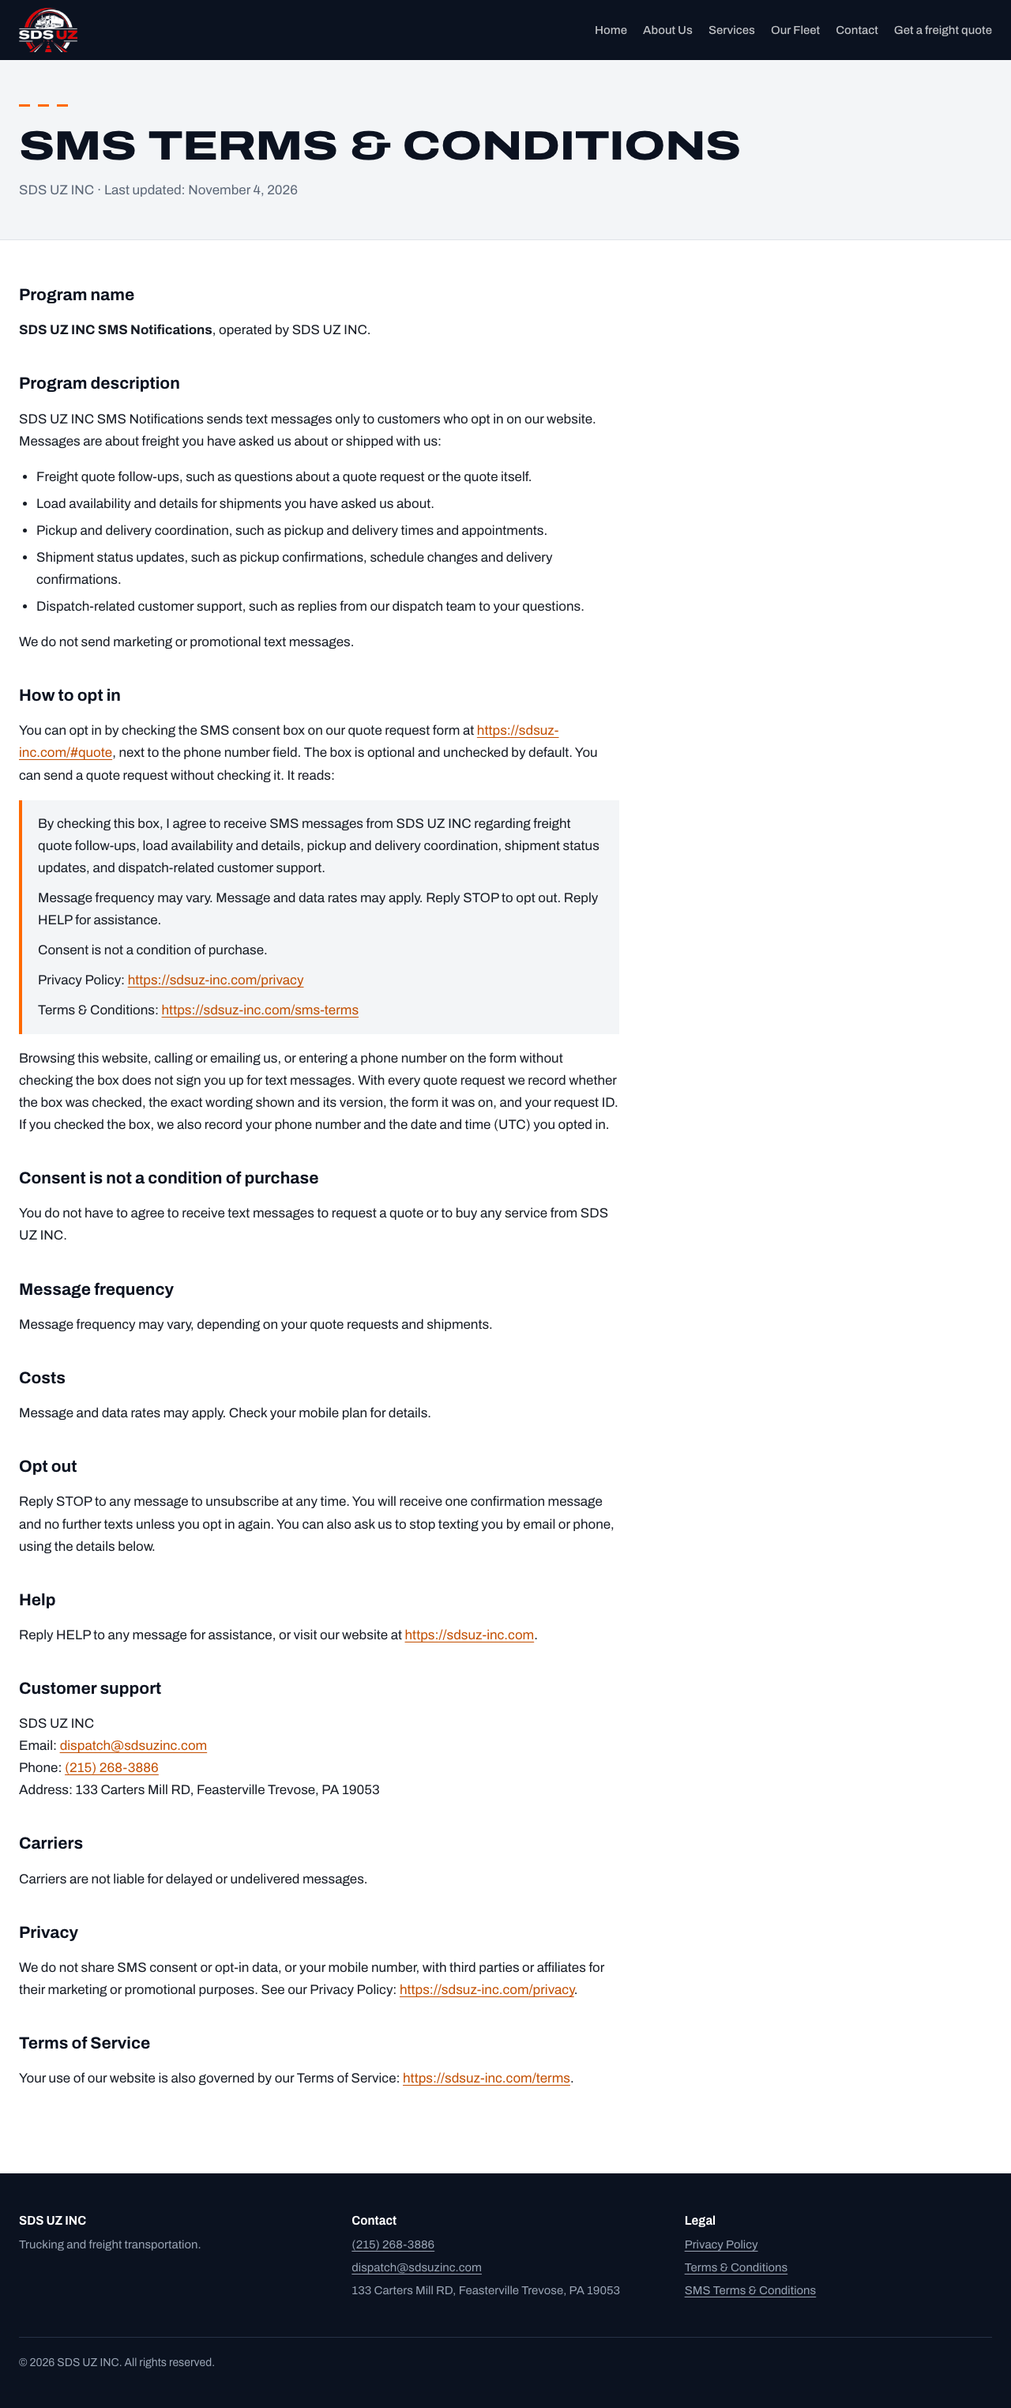
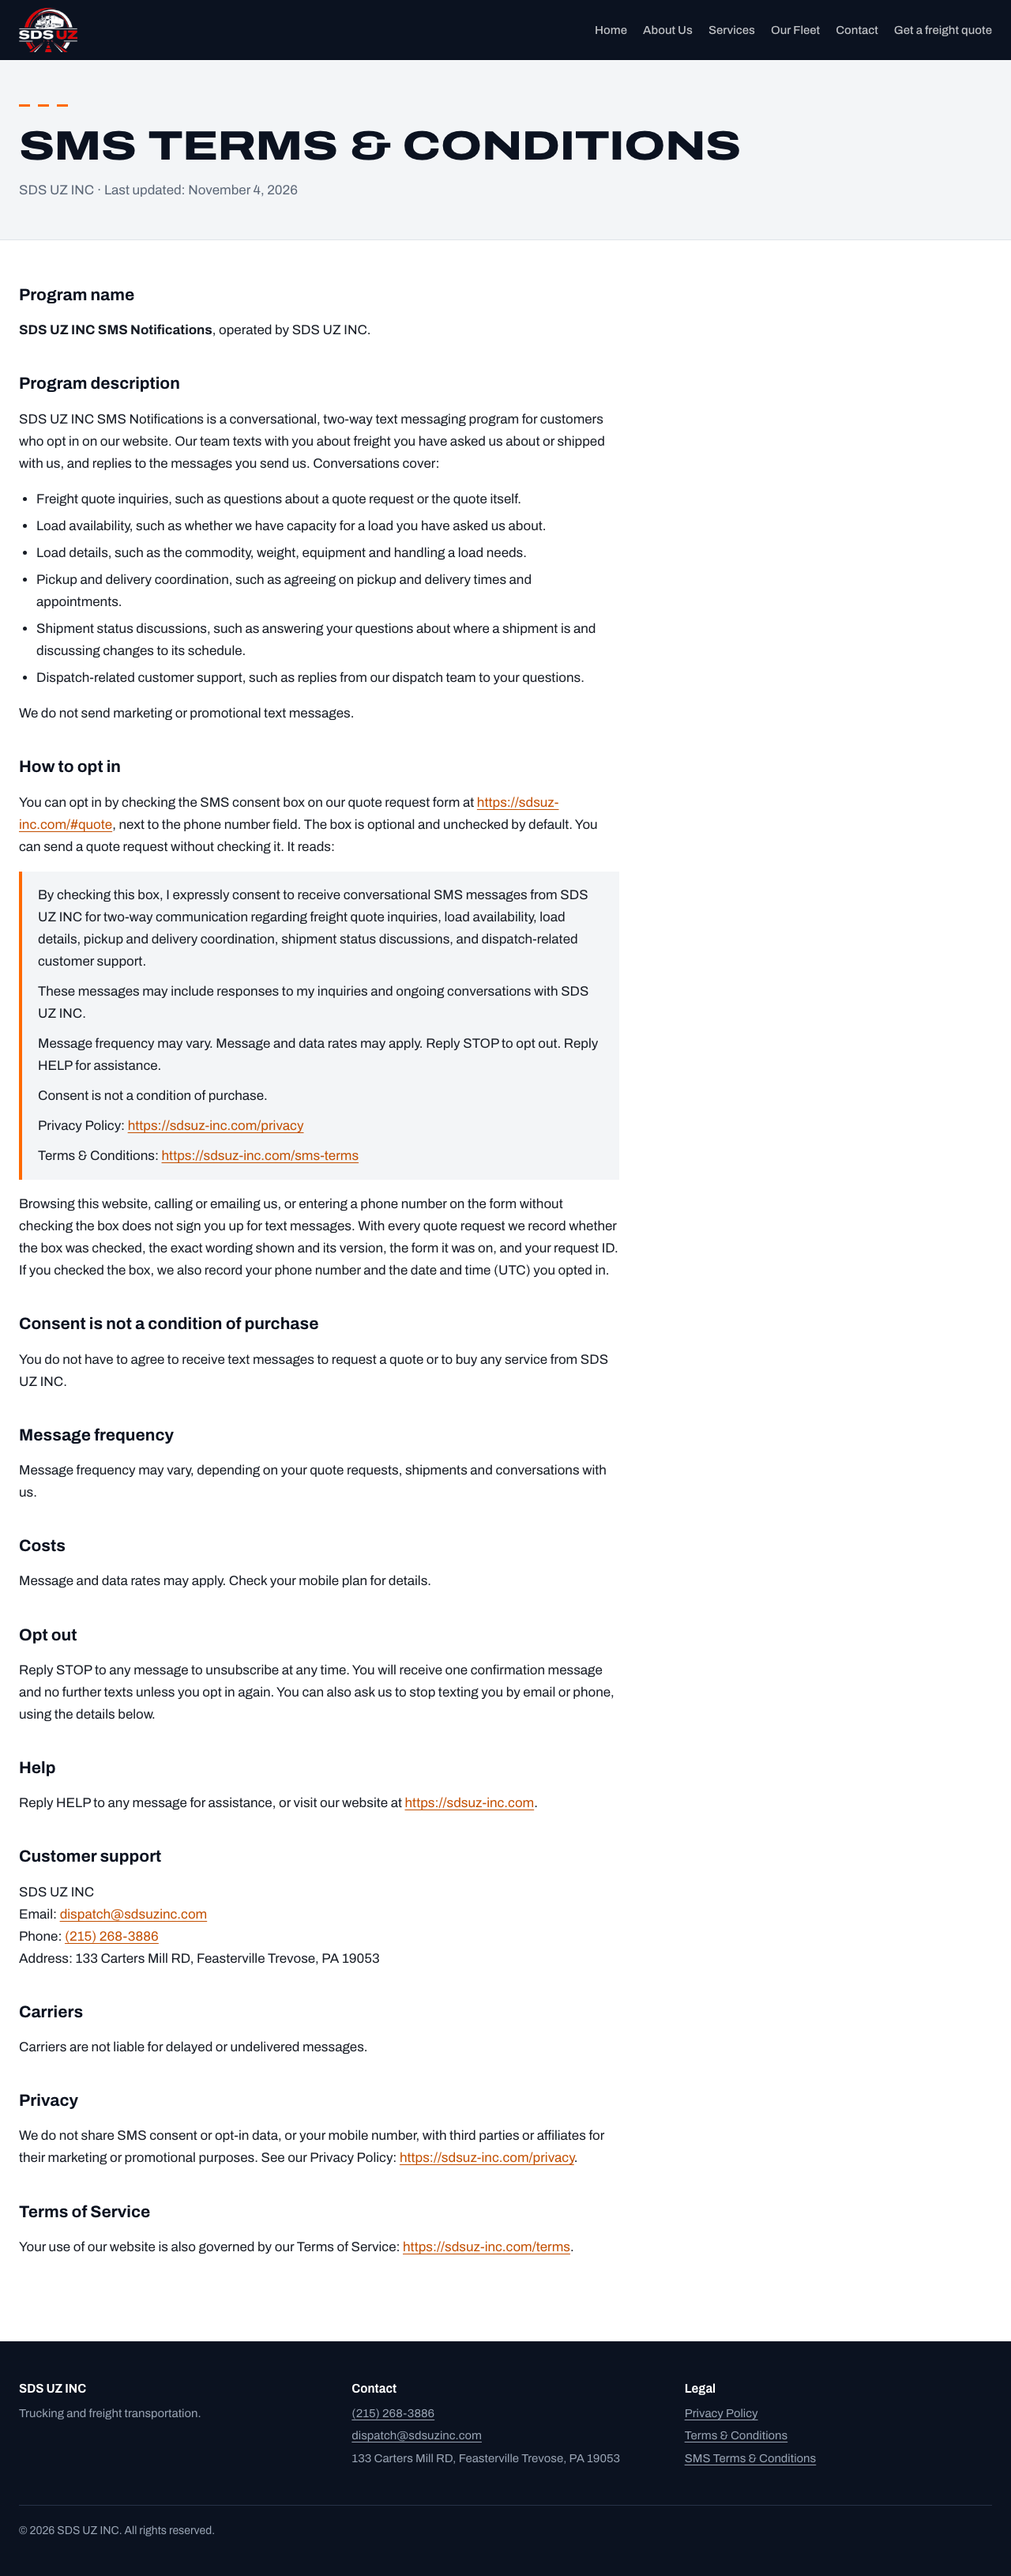
SMS consent: conversational, two-way wording (version 2026-11-04.2)
RingCentral again asked for message types matching the campaign's use
case, Conversations (external).

- Consent text: conversational SMS for two-way communication about
  freight quote inquiries, load availability, load details, pickup and
  delivery coordination, shipment status discussions and
  dispatch-related customer support, including responses to the
  customer's inquiries and ongoing conversations
- SMS Terms, Privacy Policy and About describe the same two-way
  categories instead of one-way notifications
- Evidence: screenshots 01-07 retaken from the live site, message flow
  text and README updated

diff --git a/public/sms-terms.html b/public/sms-terms.html
@@ -49,14 +49,17 @@
 
         <h2>Program description</h2>
         <p>
-          SDS UZ INC SMS Notifications sends text messages only to customers who opt in on our website. Messages are
-          about freight you have asked us about or shipped with us:
+          SDS UZ INC SMS Notifications is a conversational, two-way text messaging program for customers who opt in on
+          our website. Our team texts with you about freight you have asked us about or shipped with us, and replies to
+          the messages you send us. Conversations cover:
         </p>
         <ul>
-          <li>Freight quote follow-ups, such as questions about a quote request or the quote itself.</li>
-          <li>Load availability and details for shipments you have asked us about.</li>
-          <li>Pickup and delivery coordination, such as pickup and delivery times and appointments.</li>
-          <li>Shipment status updates, such as pickup confirmations, schedule changes and delivery confirmations.</li>
+          <li>Freight quote inquiries, such as questions about a quote request or the quote itself.</li>
+          <li>Load availability, such as whether we have capacity for a load you have asked us about.</li>
+          <li>Load details, such as the commodity, weight, equipment and handling a load needs.</li>
+          <li>Pickup and delivery coordination, such as agreeing on pickup and delivery times and appointments.</li>
+          <li>Shipment status discussions, such as answering your questions about where a shipment is and discussing
+            changes to its schedule.</li>
           <li>Dispatch-related customer support, such as replies from our dispatch team to your questions.</li>
         </ul>
         <p>We do not send marketing or promotional text messages.</p>
@@ -69,10 +72,11 @@
         </p>
         <blockquote>
           <p>
-            By checking this box, I agree to receive SMS messages from SDS UZ INC regarding freight quote follow-ups,
-            load availability and details, pickup and delivery coordination, shipment status updates, and
-            dispatch-related customer support.
+            By checking this box, I expressly consent to receive conversational SMS messages from SDS UZ INC for two-way
+            communication regarding freight quote inquiries, load availability, load details, pickup and delivery
+            coordination, shipment status discussions, and dispatch-related customer support.
           </p>
+          <p>These messages may include responses to my inquiries and ongoing conversations with SDS UZ INC.</p>
           <p>
             Message frequency may vary. Message and data rates may apply. Reply STOP to opt out. Reply HELP for
             assistance.
@@ -94,7 +98,7 @@
         </p>
 
         <h2>Message frequency</h2>
-        <p>Message frequency may vary, depending on your quote requests and shipments.</p>
+        <p>Message frequency may vary, depending on your quote requests, shipments and conversations with us.</p>
 
         <h2>Costs</h2>
         <p>Message and data rates may apply. Check your mobile plan for details.</p>

diff --git a/public/privacy.html b/public/privacy.html
@@ -65,7 +65,7 @@
         <h2>3. How we use your information</h2>
         <ul>
           <li>To provide and manage our services and respond to your requests.</li>
-          <li>To send you text messages you have agreed to receive, such as freight quote follow-ups, load availability and details, pickup and delivery coordination, shipment status updates, and dispatch-related customer support (see section 5).</li>
+          <li>To send you text messages you have agreed to receive, which are conversational, two-way messages about freight quote inquiries, load availability, load details, pickup and delivery coordination, shipment status discussions, and dispatch-related customer support (see section 5).</li>
           <li>To keep records and comply with legal obligations.</li>
         </ul>
 
@@ -91,9 +91,10 @@
           consent box next to the phone number field on our quote request form. The box is unchecked by default, and you
           can request a quote without checking it. Browsing this website, or giving us a phone number without checking
           that box, does not sign you up for text messages.</p>
-        <p><strong>What we text about.</strong> If you opt in to SDS UZ INC SMS Notifications, we may text you about
-          freight quote follow-ups, load availability and details, pickup and delivery coordination, shipment status
-          updates, and dispatch-related customer support. We do not send
+        <p><strong>What we text about.</strong> If you opt in to SDS UZ INC SMS Notifications, we may exchange
+          conversational, two-way text messages with you about freight quote inquiries, load availability, load
+          details, pickup and delivery coordination, shipment status discussions, and dispatch-related customer support,
+          including replies to your messages. We do not send
           marketing texts. Message frequency may vary. Message and data rates may apply. Consent is not a condition of
           purchase.</p>
         <p><strong>Opting out and getting help.</strong> Reply STOP to any message to unsubscribe at any time. Reply HELP

diff --git a/src/config/site.ts b/src/config/site.ts
@@ -286,7 +286,8 @@ export const quoteForm = {
  * RingCentral campaign, and change `smsConsentVersion` whenever the wording changes.
  */
 export const smsConsentParagraphs = [
-  'By checking this box, I agree to receive SMS messages from SDS UZ INC regarding freight quote follow-ups, load availability and details, pickup and delivery coordination, shipment status updates, and dispatch-related customer support.',
+  'By checking this box, I expressly consent to receive conversational SMS messages from SDS UZ INC for two-way communication regarding freight quote inquiries, load availability, load details, pickup and delivery coordination, shipment status discussions, and dispatch-related customer support.',
+  'These messages may include responses to my inquiries and ongoing conversations with SDS UZ INC.',
   'Message frequency may vary. Message and data rates may apply. Reply STOP to opt out. Reply HELP for assistance.',
   'Consent is not a condition of purchase.',
 ] as const
@@ -304,9 +305,10 @@ export const smsConsentText = [...smsConsentParagraphs, ...smsConsentLinks.map((
  * Date the wording went live, plus a revision number for a second change on the same day.
  * History: 2026-11-02 ("See our Privacy Policy and SMS Terms & Conditions."),
  * 2026-11-02.2 (policy links written out as full URLs),
- * 2026-11-04 (message types matching the RingCentral "Conversations (external)" use case).
+ * 2026-11-04 (message types matching the RingCentral "Conversations (external)" use case),
+ * 2026-11-04.2 (messages described as conversational, two-way SMS).
  */
-export const smsConsentVersion = '2026-11-04'
+export const smsConsentVersion = '2026-11-04.2'
 
 /** Machine-readable consent source recorded with each request. */
 export const smsConsentSource = 'website_quote_form'

diff --git a/public/about.html b/public/about.html
@@ -72,8 +72,8 @@
           <h2>How we communicate with customers</h2>
           <p>
             Customers reach us by phone, email or through our quote request form. Customers who choose to opt in on that
-            form can also receive text messages from SDS UZ INC about freight quote follow-ups, load availability and
-            details, pickup and delivery coordination, shipment status updates, and dispatch-related customer support. See our <a href="/sms-terms">SMS Terms &amp; Conditions</a>.
+            form can also text with SDS UZ INC about freight quote inquiries, load availability, load details, pickup
+            and delivery coordination, shipment status discussions, and dispatch-related customer support. See our <a href="/sms-terms">SMS Terms &amp; Conditions</a>.
           </p>
 
           <a class="button" href="/#quote">Get a freight quote</a>
